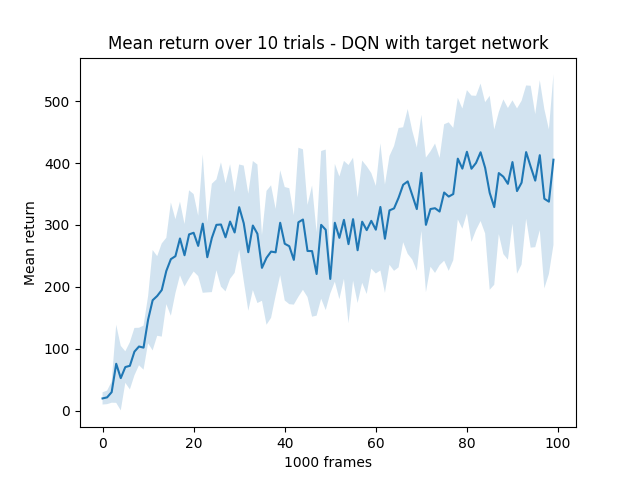
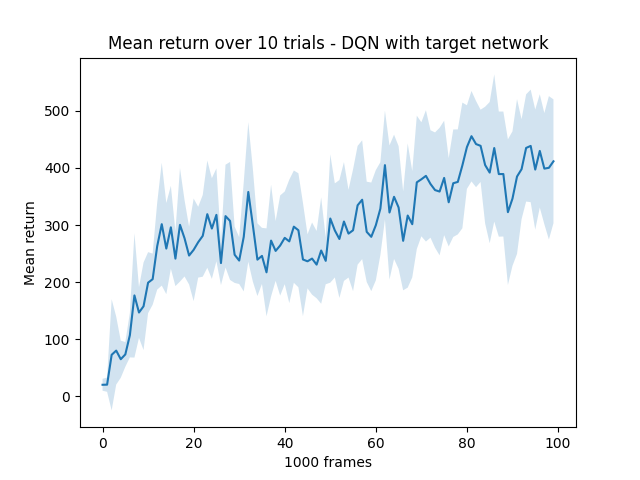
Reduce target network delay to 500 steps

diff --git a/dqn/target_network.py b/dqn/target_network.py
@@ -167,8 +167,8 @@ def run_trial():
                 eval_return = evaluate(agent)
                 return_hist.append(eval_return)
 
-            # Update target network every 1000 timesteps
-            if timestep % 1000 == 0:
+            # Update target network every 500 timesteps
+            if timestep % 500 == 0:
                 target_net.load_state_dict(policy_net.state_dict())
 
             timestep += 1
